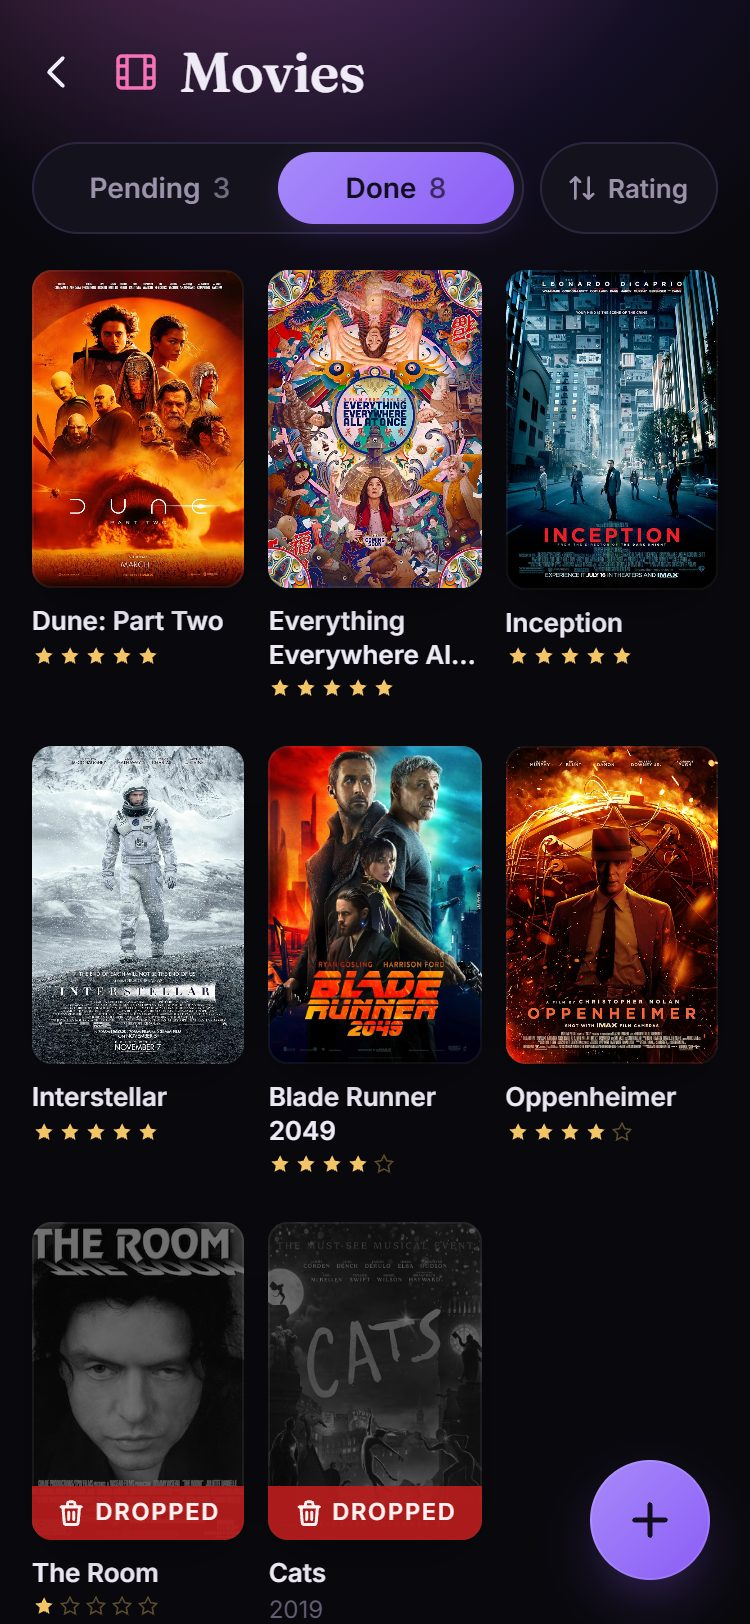
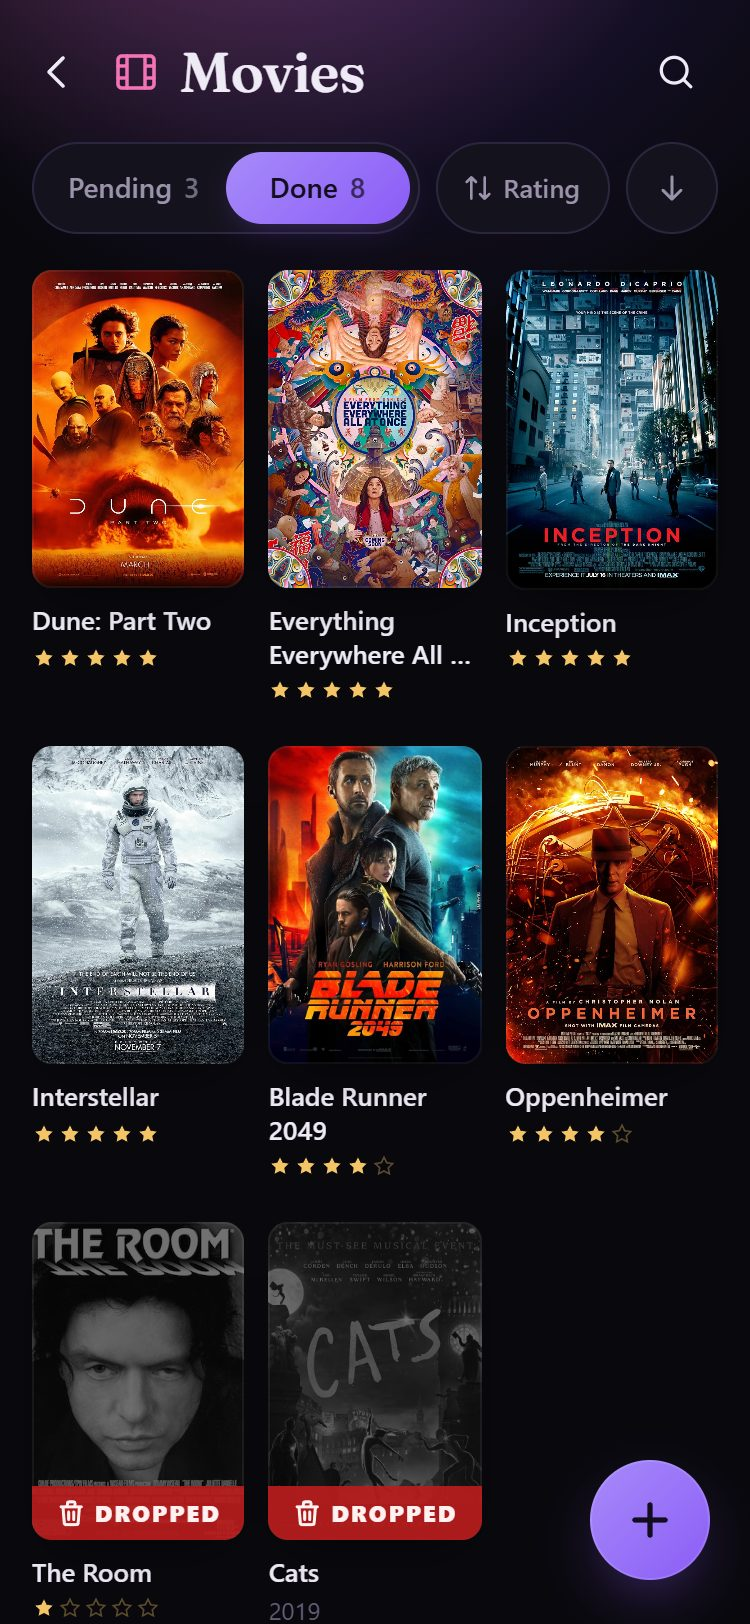
Update docs

diff --git a/virtual-library/DOCS.md b/virtual-library/DOCS.md
@@ -25,12 +25,20 @@ Anything marked done until then counts as seen before; nothing else changes.
   screen, the stats and the search, but everything in it is kept: switch it back on any time. One always stays on.
 - In each kind, **Pending** is everything you haven't seen, read or played yet, or haven't finished.
   **Done** is everything you've finished. Each kind opens on Pending, newest first; Done starts with your best rated.
-  Use the sort button next to the tabs for A–Z, rating (on Done) or length: a movie's duration, a series' seasons,
-  a book's pages, a manga's or comic's volumes, or the hours you played a game (on Done).
+  Use the sort button next to the tabs for name, rating (on Done) or length: a movie's duration, a series' seasons,
+  a book's pages, a manga's or comic's volumes, or the hours you played a game (on Done). Games can also be sorted by
+  platform, and Manga/Comics by type (comics first). The arrow next to it turns any order the other way round.
+- Looking for something? Tap the search icon next to the kind's title and type: it finds things by title or creator,
+  on every tab (the tabs show how many match). **✕** closes it.
+- On a long list, the arrows above **+** take you to the top or the bottom.
 - **Series** have a third tab, **Waiting**: series you've caught up on, waiting for a new season. Move a series there
   from its page; when the new season is out, move it back to Pending.
 - Tap a cover to open it: move it between Pending, (Waiting) and Done, rate it, or remove it. A finished game also
-  has a **Playtime** field, if you want to keep track.
+  has a **Playtime** field and a note (the button next to Playtime), if you want to keep track; a game with a note has
+  a small badge on its cover. A rating, playtime or note is saved with **Save**; closing with changes not saved asks first.
+- **Left off at** (the bookmark button on an item's page) keeps your place: the page of a pending book, the volume of a
+  pending manga or comic, or the season and episode of a series in Pending or Waiting (picked from a list, up to what's out).
+  It shows on the cover's card too. **✕** clears it, and finishing the item clears it too. It isn't counted in the stats.
 - Gave up on something because it wasn't worth finishing? Tap **Dropped it** on its page. It goes to Done (no confetti),
   greyed out with a red **Dropped** band across its cover. Tap it again to undo, or move it back to Pending.
 - **+** inside a kind adds to that kind only (e.g. "Add a game"). **+** on the home screen lets you pick the kind
@@ -54,6 +62,13 @@ Finished things can have a rating from 1 to 5 stars. It's optional: tap a star t
 and tap the same star again to clear it. Adding something straight to **Done** opens it, so
 you can rate it right away. Moving an item back to Pending (or Waiting) clears its rating.
 
+### Undo a mistake
+
+Tap **⋯** at the top right of the home screen, then **Recent activity** at the bottom: your latest 50 changes to items
+(added, removed, moved, rated…), newest first. **Undo** puts the item back as it was before that change; a removed item
+comes back with everything it had. An item's changes undo newest first, so only its latest one has the button.
+Changes to settings aren't in it.
+
 ### Not in the search?
 
 If the search doesn't find it, you can still add it by its title (**Add "…" anyway?**).
@@ -68,6 +83,20 @@ You can change the port, or turn it off, in the add-on's **Network** settings. T
 
 The direct address has no login: anyone on your home network who knows it can open the library.
 Turn it off if that's a concern; the sidebar and the Home Assistant app use your Home Assistant login.
+
+## Install as an app on Android
+
+Chrome on Android only installs an app from a secure (https) address with a trusted certificate. If Home Assistant
+already has one for your own domain (e.g. Let's Encrypt, in its `ssl` folder), the add-on can use it:
+
+1. In the add-on's **Configuration** tab, turn on **ssl**. `certfile` and `keyfile` are the certificate's files in the
+   `ssl` folder (`fullchain.pem` and `privkey.pem` by default). Restart the add-on.
+2. Make your domain point to Home Assistant's address on your home network, e.g. with a DNS rewrite in your router or
+   AdGuard Home (`ha.example.com` → `192.168.1.10`).
+3. On the phone, open `https://<your-domain>:3101/` in Chrome, then ⋮ → **Install app**.
+
+Don't forward port 3101 on your router: there are no passwords, so keep it on your home network. The plain address on
+port 3100 keeps working as before, and a renewed certificate is picked up by itself.
 
 ## Search and covers
 
@@ -100,7 +129,7 @@ so the library keeps its pictures even if a website changes.
 
 ## Configuration
 
-Both options are optional. Leave them empty to use the catalogs above.
+All options are optional. Leave the keys empty to use the catalogs above.
 
 **tmdb_api_key** (optional)
 - Searches movies and series on [TMDB](https://www.themoviedb.org/) first, which has the best posters and finds more
@@ -110,6 +139,10 @@ Both options are optional. Leave them empty to use the catalogs above.
 **rawg_api_key** (optional)
 - Searches games on [RAWG](https://rawg.io/) first, which knows console games too (Steam and GOG only have PC games)
 - Get a free key at [rawg.io/apidocs](https://rawg.io/apidocs)
+
+**ssl**, **certfile**, **keyfile** (optional)
+- Also serve the app over https on port 3101, with Home Assistant's own certificate: see
+  [Install as an app on Android](#install-as-an-app-on-android)
 
 Restart the add-on after changing an option. Items you've already added keep their covers.
 

diff --git a/virtual-library/docs/DEVELOPMENT.md b/virtual-library/docs/DEVELOPMENT.md
@@ -22,6 +22,7 @@ Search needs internet access (it asks the real catalogs); the tests don't.
 | `COVERS_DIR`   | `data/covers`       | Where cover images are saved                         |
 | `TMDB_API_KEY` | none                | Search movies and series on TMDB                     |
 | `RAWG_API_KEY` | none                | Search games on RAWG                                 |
+| `HTTPS_PORT`, `TLS_CERT`, `TLS_KEY` | off | Also serve https (PEM certificate and key, reloaded when renewed); the add-on uses 3101 with Home Assistant's certificate (`ssl` option) |
 
 The server doesn't know about Home Assistant: in the add-on, `run.sh` reads the add-on options
 with bashio and sets these variables.
@@ -35,17 +36,19 @@ config.yaml, Dockerfile, run.sh     Home Assistant add-on
 README.md, DOCS.md, CHANGELOG.md    add-on store page, Documentation tab, changelog
 
 src/                      server (Node, no framework, no dependencies)
-  server.js               entry point: load config and library, wire the parts, start HTTP, graceful shutdown
+  server.js               entry point: load config and library, wire the parts, start HTTP (and https), graceful shutdown
   config.js               environment variables
+  tls.js                  https certificate: reading it, and reloading it when it's renewed
   app.js                  HTTP routes: page, static files, covers, API
   library/state.js        state shape, repairing saved data, the view sent to screens
   library/actions.js      every library action, validated (the only code that changes state)
+  library/activity.js     recent activity: each change to an item, with the item as it was (for undo)
   catalog/index.js        search: picks a provider per category, cleans up results, image allow-list
   catalog/providers/      one file per catalog: cinemeta, tvmaze, open-library, apple-books, steam, gog, nintendo, tmdb, rawg
   covers.js               saved cover images (CoverStore) and keeping them in step with the library
   catalog/genres.js       makes the catalogs' genres comparable (aliases; book genres picked out of subjects)
   catalog/details.js      looks up details in the background (provider.details), like covers: movie durations,
-                          series seasons and episodes (again weekly for series not done yet), book pages
+                          series seasons and episodes, each season's too (again weekly for series not done yet), book pages
   http-client.js          fetch with a timeout and a User-Agent, for catalogs and images
   store.js                JSON file storage: debounced, atomic writes
   sse.js                  Server-Sent Events hub for live updates
@@ -61,10 +64,11 @@ public/                   browser (plain ES modules, no build step)
                           api, dom, format, storage
   js/ui/                  reusable pieces: back (phone back button), sheet (bottom sheets, swipe to close),
                           viewport (keeps sheets above the keyboard), celebrate (confetti + message),
-                          toast, cover, stars, icons
+                          ask (a question with two answers), toast, cover, stars, icons
   js/library/             the views: home (category tiles), category (title + Pending / (Waiting) / Done tabs, sort), shelf (grid),
                           search (the controller) and search-results (what it shows), details (one item),
-                          stats (the Stats page), cheers (the lines said when you finish something)
+                          stats (the Stats page), cheers (the lines said when you finish something),
+                          shown (settings: which categories show), activity (recent activity, with undo)
 
 test/                     node:test suites
 ```
@@ -76,10 +80,16 @@ test/                     node:test suites
 to every screen over `GET /api/events` (Server-Sent Events). Screens never change items locally; they
 only render the latest view.
 
-**Actions:** `addItem`, `setStatus`, `setDropped`, `rateItem`, `setHours` (games), `removeItem`. See `src/library/actions.js`.
+**Actions:** `addItem`, `setStatus`, `setDropped`, `rateItem`, `setHours` and `setNote` (finished games), `setLeftOff`
+(pending books and comics), `setSeenUpTo` (series not done), `removeItem`, `undo`, and the settings: `setCategoryHidden`,
+`setSetup`. See `src/library/actions.js`.
 Statuses are `pending`, `done` and, for series only, `waiting` (`statusesFor` in `public/js/shared/library.js`).
 Only finished items can be rated; moving an item away from done clears its rating and its `dropped` mark
 (dropped: given up on; it counts as done).
+
+**Recent activity.** Every action that changes an item keeps an entry in `activity` (the latest 50): what changed,
+in a few words, and the item as it was before. `undo` puts that copy back (or removes an item that was added);
+an item's entries undo newest first. The view sends the entries without the copies.
 
 **Search.** `GET /api/search?category=movie&q=dune` asks the providers for that category, one after the
 other until one finds something (a provider that's down is skipped), and returns

diff --git a/virtual-library/README.md b/virtual-library/README.md
@@ -8,8 +8,11 @@ A personal library of movies, series, books, manga, comics and games. Search for
 - Movies, series, books, manga, comics and games in one place, each with its cover
 - Search built in: no account or API key needed
 - Two lists: **Pending** and **Done** (series also **Waiting**, for a new season)
-- Optional 5-star rating for finished things
+- Optional 5-star rating for finished things, playtime and a note for games
+- Where you left off: a book's page, a manga's volume, a series' episode
+- Search and sort inside each kind
 - Stats: what you finished each month, your top genres, time spent and more
+- Recent activity, to undo a mistake
 
 ## Installation
 
@@ -24,11 +27,15 @@ A personal library of movies, series, books, manga, comics and games. Search for
 |--------|------|---------|-------------|
 | tmdb_api_key | password | (empty) | Optional. Search movies and series on TMDB |
 | rawg_api_key | password | (empty) | Optional. Search games on RAWG (every platform, not only PC) |
+| ssl | bool | false | Also serve https on port 3101 with Home Assistant's own certificate, so Android can install the app |
+| certfile | str | fullchain.pem | Certificate in Home Assistant's `ssl` folder |
+| keyfile | str | privkey.pem | Its key, in the `ssl` folder |
 
 ## Usage
 
 Open **Hoard Board** in the Home Assistant sidebar
 or go straight to `http://<your-homeassistant-ip>:3100/`.
+With `ssl` on, the secure address is `https://<your-domain>:3101/` (see the Documentation tab).
 
 ## Development
 

diff --git a/README.md b/README.md
@@ -30,8 +30,8 @@ Keep track of what you've watched, read and played, and what's still pending.
 
 **Features:**
 - Movies, series, books, manga, comics and games in one place, each with its cover
-- Search built in, no account or API key needed
-- A home screen per kind, Pending and Done lists (series also Waiting, for a new season), and an optional 5-star rating
+- A home screen per kind, Pending and Done lists (series also Waiting, for a new season)
+- Where you left off (a page, a volume, an episode), notes on games, and undo for mistakes
 - Stats: what you finished each month, your top genres, time spent and more
 
 [Documentation →](./virtual-library/README.md)
